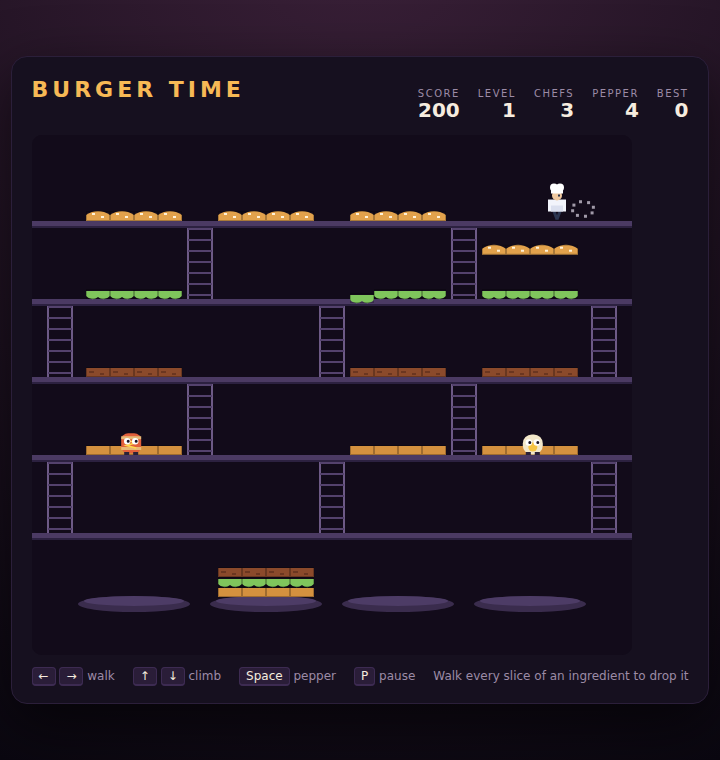
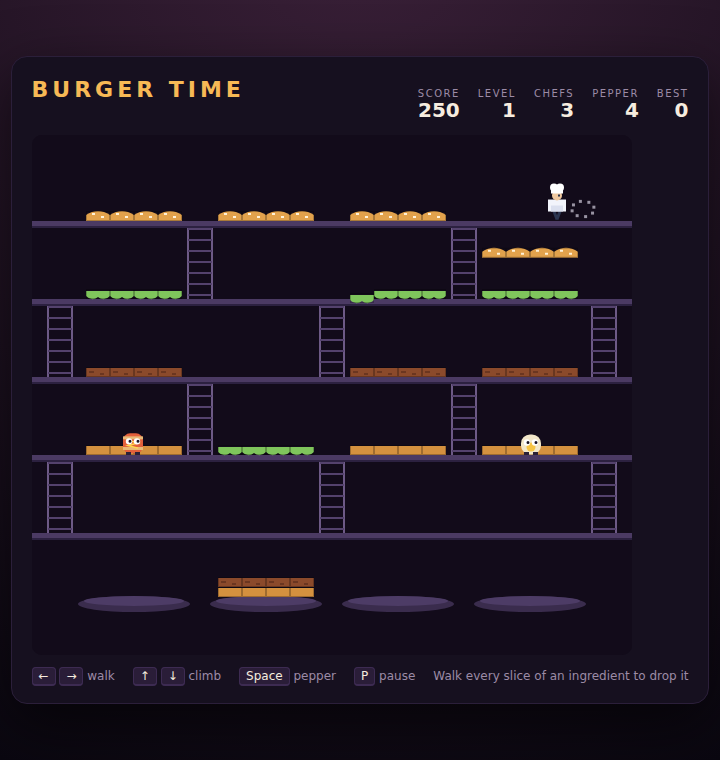
Make Burger Time chains bump one girder at a time
A chained ingredient previously rode straight to the plate, so a single
pass along the top girder cleared the entire level. Now the arriving piece
knocks the resting one loose and bounces past it toward the next girder,
letting pieces leapfrog each other down the board the way the arcade
original does. A top-girder run still cascades a column but plates only
part of it.

- Drop the `chained` flag from ingredient state
- Update the chain tests to assert the cascade moves every piece down
  while plating fewer than four, so the old shortcut cannot come back
- Refresh README/DESIGN wording and the screenshot to match

Claude-Session: https://claude.ai/code/session_01F3299fKSHm5aaoi3Dbbz8T

diff --git a/BurgerTime/tests/burgertime.spec.js b/BurgerTime/tests/burgertime.spec.js
@@ -440,22 +440,32 @@ test.describe('Burger Time', () => {
                 const below = ingredients.find((i) => i.col === 3 && i.floorIndex === 1);
                 startFall(top);
                 for (let i = 0; i < 90; i++) step(1 / 60);
-                return { belowMoving: below.falling || below.plated, topPassed: top.y > FLOOR_Y[1] };
+                return { belowKnocked: below.floorIndex > 1 || below.falling || below.plated, topPassed: top.y > FLOOR_Y[1] };
             });
-            expect(r.belowMoving).toBe(true);
+            expect(r.belowKnocked).toBe(true);
             expect(r.topPassed).toBe(true);
         });
 
-        test('a chain carries the whole column down to the plate', async ({ page }) => {
+        test('a chain cascades every ingredient in the column downward', async ({ page }) => {
             const r = await page.evaluate(() => {
                 startGame();
                 enemies.length = 0;
                 const before = score;
-                startFall(ingredients.find((i) => i.col === 0 && i.floorIndex === 0));
+                const column = ingredients.filter((i) => i.col === 0);
+                const startFloor = new Map(column.map((i) => [i, i.floorIndex]));
+                startFall(column.find((i) => i.floorIndex === 0));
                 for (let i = 0; i < 600; i++) step(1 / 60);
-                return { plated: ingredients.filter((i) => i.col === 0 && i.plated).length, gained: score - before };
+                return {
+                    plated: column.filter((i) => i.plated).length,
+                    allMoved: column.every((i) => i.plated || i.floorIndex > startFloor.get(i)),
+                    settled: column.every((i) => !i.falling),
+                    gained: score - before,
+                };
             });
-            expect(r.plated).toBe(4);
+            expect(r.allMoved).toBe(true);       // every piece was knocked at least one girder down
+            expect(r.plated).toBeGreaterThanOrEqual(2);
+            expect(r.plated).toBeLessThan(4);    // a single run must not plate the whole burger
+            expect(r.settled).toBe(true);
             expect(r.gained).toBeGreaterThanOrEqual(200);
         });
 

diff --git a/BurgerTime/game.js b/BurgerTime/game.js
@@ -124,7 +124,6 @@ function buildIngredients() {
                 y: FLOOR_Y[floorIndex],
                 segs: [false, false, false, false],
                 falling: false,
-                chained: false,
                 plated: false,
                 squashes: 0,
             });
@@ -305,7 +304,6 @@ function markSegments() {
 function startFall(ing) {
     if (ing.falling || ing.plated) return;
     ing.falling = true;
-    ing.chained = false;
     ing.squashes = 0;
     ing.segs = [true, true, true, true];
     score += DROP_POINTS;
@@ -338,7 +336,6 @@ function updateIngredient(ing, h) {
         ing.y = plateRestY(ing.col);
         ing.floorIndex = FLOOR_Y.length;
         ing.falling = false;
-        ing.chained = false;
         ing.plated = true;
         return;
     }
@@ -348,13 +345,11 @@ function updateIngredient(ing, h) {
     );
     ing.floorIndex = next;
     if (resting) {
-        // Knock it loose: both pieces ride the rest of the way to the plate.
+        // Knock it loose and bounce on past it — both now head for the floor
+        // below, where either of them may knock something else loose in turn.
         startFall(resting);
-        resting.chained = true;
-        ing.chained = true;
         return;
     }
-    if (ing.chained) return;
 
     ing.y = FLOOR_Y[next];
     ing.falling = false;

diff --git a/BurgerTime/DESIGN.md b/BurgerTime/DESIGN.md
@@ -10,8 +10,8 @@ around the ladders.
 Four burger stacks hang across five horizontal girders. Each stack is made of four
 ingredients (top bun, lettuce, patty, bottom bun), one per girder. Walking the full
 width of an ingredient makes it drop to the girder below; anything it lands on gets
-knocked loose too, so a well-timed run cascades a whole stack onto the plate at
-once. Plate all sixteen ingredients to clear the level.
+knocked loose too, so a well-timed run sends a cascade rippling down a column.
+Plate all sixteen ingredients to clear the level.
 
 Three food enemies (hot dog, fried egg, pickle) hunt the chef. Touching one costs a
 life. The chef fights back two ways: shaking pepper to freeze enemies for a few
@@ -57,10 +57,13 @@ visibly sags). When all four segments are stepped the ingredient breaks loose:
 
 - It descends at 180 px/s toward the next floor down.
 - On reaching that floor, if another resting ingredient occupies the same column
-  there, that one is knocked loose too — a **chain**. Both are flagged `chained`
-  and ride the rest of the way down to the plate without stopping.
-- An unchained ingredient settles on the first free girder it reaches and its
-  segments reset: it has to be walked all over again from its new floor.
+  there, that one is knocked loose too — a **chain** — and the arriving piece
+  bounces on past it toward the next girder down. Either of them may knock
+  something else loose in turn, so one drop ripples through a stack.
+- An ingredient that reaches a free girder settles there and its segments reset:
+  it has to be walked all over again from its new floor. Walking the top girder
+  end to end therefore cascades a whole column but only plates part of it — the
+  rest is left scattered down the board.
 - Past the bottom girder it lands on the column's plate, stacking on top of
   whatever is already there.
 
@@ -123,7 +126,7 @@ Key globals used by the tests:
 | `state` | `'idle'` \| `'running'` \| `'paused'` \| `'over'` |
 | `score`, `best`, `level`, `lives`, `pepper` | HUD values |
 | `chef` | `{ x, y, floorIndex, ladder, inputX, inputY, facing, invuln }` |
-| `ingredients` | 16 × `{ col, type, floorIndex, x, y, segs, falling, chained, plated }` |
+| `ingredients` | 16 × `{ col, type, floorIndex, x, y, segs, falling, plated }` |
 | `enemies` | `{ type, x, y, floorIndex, ladder, alive, stun, respawn, spawnX }` |
 | `peppers` | short-lived clouds `{ x, y, life }` |
 | `CANVAS_W`, `CANVAS_H`, `FLOOR_Y`, `PLATE_Y`, `COL_X`, `SEG_W`, `ING_W`, `ING_H`, `LADDERS`, `LADDER_W`, `CHEF_SPEED` | geometry / tuning |
@@ -145,12 +148,11 @@ interpretation":
    (`burger-time`), but this session is pinned to the designated development branch
    `claude/loving-euler-uz80b8` and pushing anywhere else is not permitted. The work
    therefore lives on the designated branch.
-2. **A chain rides all the way to the plate.** In the arcade original a knocked
-   ingredient falls one floor at a time; here, once a piece is part of a chain it
-   ignores empty girders and lands on the plate. It keeps the payoff of a cascade
-   obvious and avoids modelling several ingredients resting on each other mid-air.
-   An *unchained* drop still stops on the next girder, so most ingredients take
-   several walks.
+2. **A chain bumps one girder at a time**, as in the arcade original, rather than
+   sweeping a whole column onto the plate. Ingredients never rest on top of one
+   another mid-board: the arriving piece bounces past the one it knocked loose, so
+   pieces leapfrog each other downward. An early version let chains ride straight
+   to the plate, which meant a single pass along the top girder won the level.
 3. **Burger order is not enforced.** Ingredients stack on a plate in arrival order,
    so a burger can end up with the lettuce under the patty. The original behaves the
    same way, and enforcing an order would add rules without adding play.

diff --git a/BurgerTime/README.md b/BurgerTime/README.md
@@ -26,9 +26,10 @@ Game**) to begin.
 - Every ingredient is **four slices wide**. Each slice you step on sags; step on
   all four and the whole ingredient breaks loose and falls one girder. Each drop
   scores **50 points**.
-- An ingredient that lands on another one **knocks it loose too**, and the whole
-  chain rides all the way down to the plate. Dropping a full stack in one run is
-  by far the fastest way to build a burger.
+- An ingredient that lands on another one **knocks it loose too** and bounces on
+  past it, so a single drop can ripple through a whole stack — worth 50 points per
+  piece it knocks loose. Pieces still land a girder at a time, so a cascade gets
+  the burger most of the way down, not all of it.
 - A falling ingredient **squashes any enemy under it**: 100 points for the first,
   doubling for each extra enemy caught in the same drop.
 - Touching an enemy costs a chef. You get **3**, plus a moment of invulnerability
